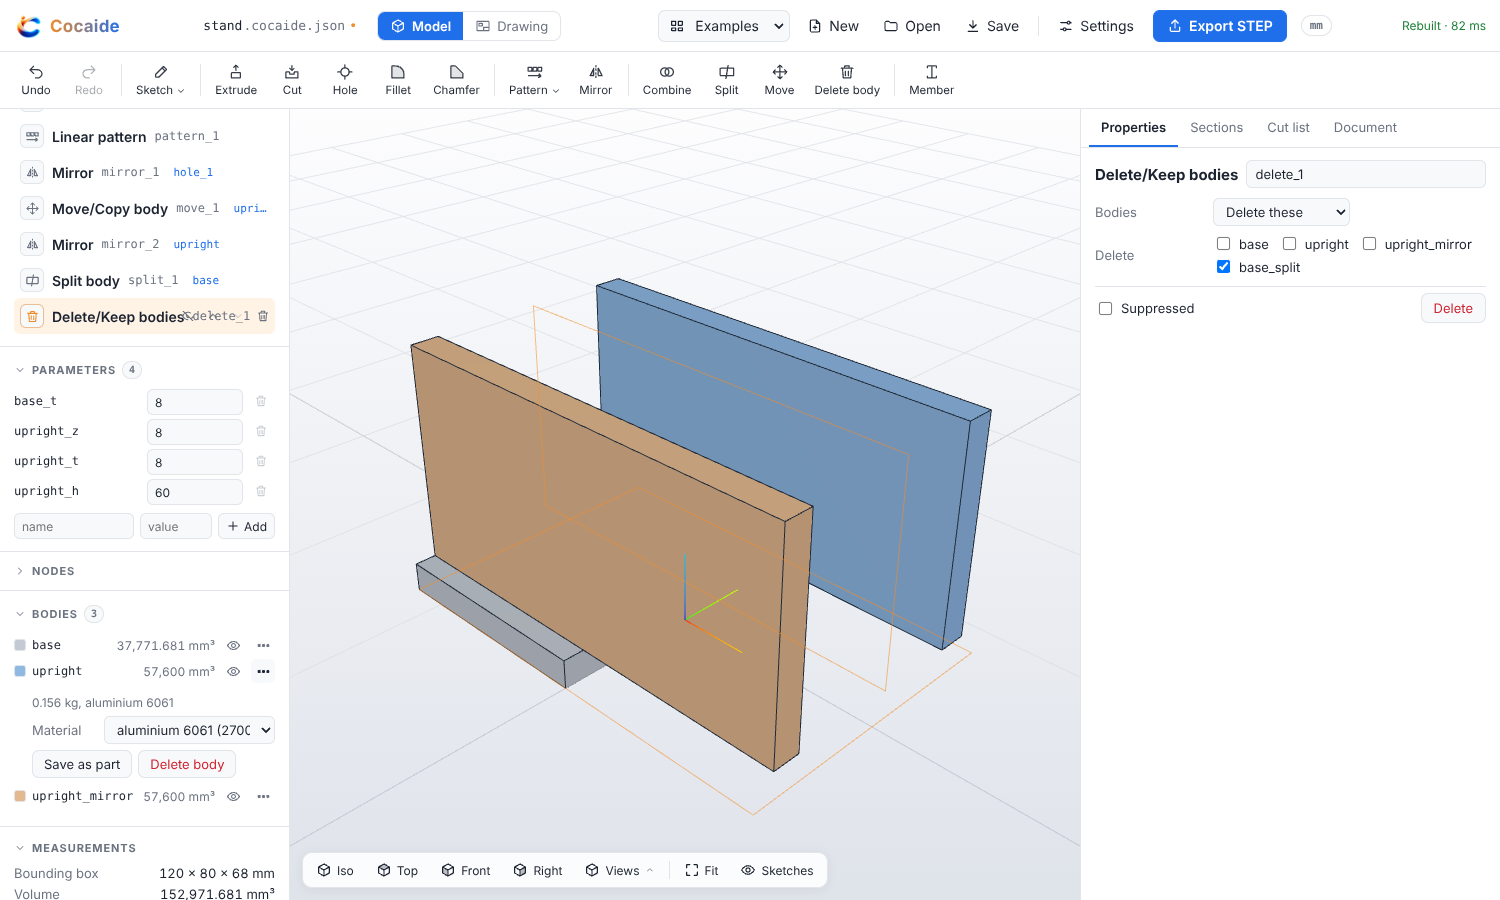
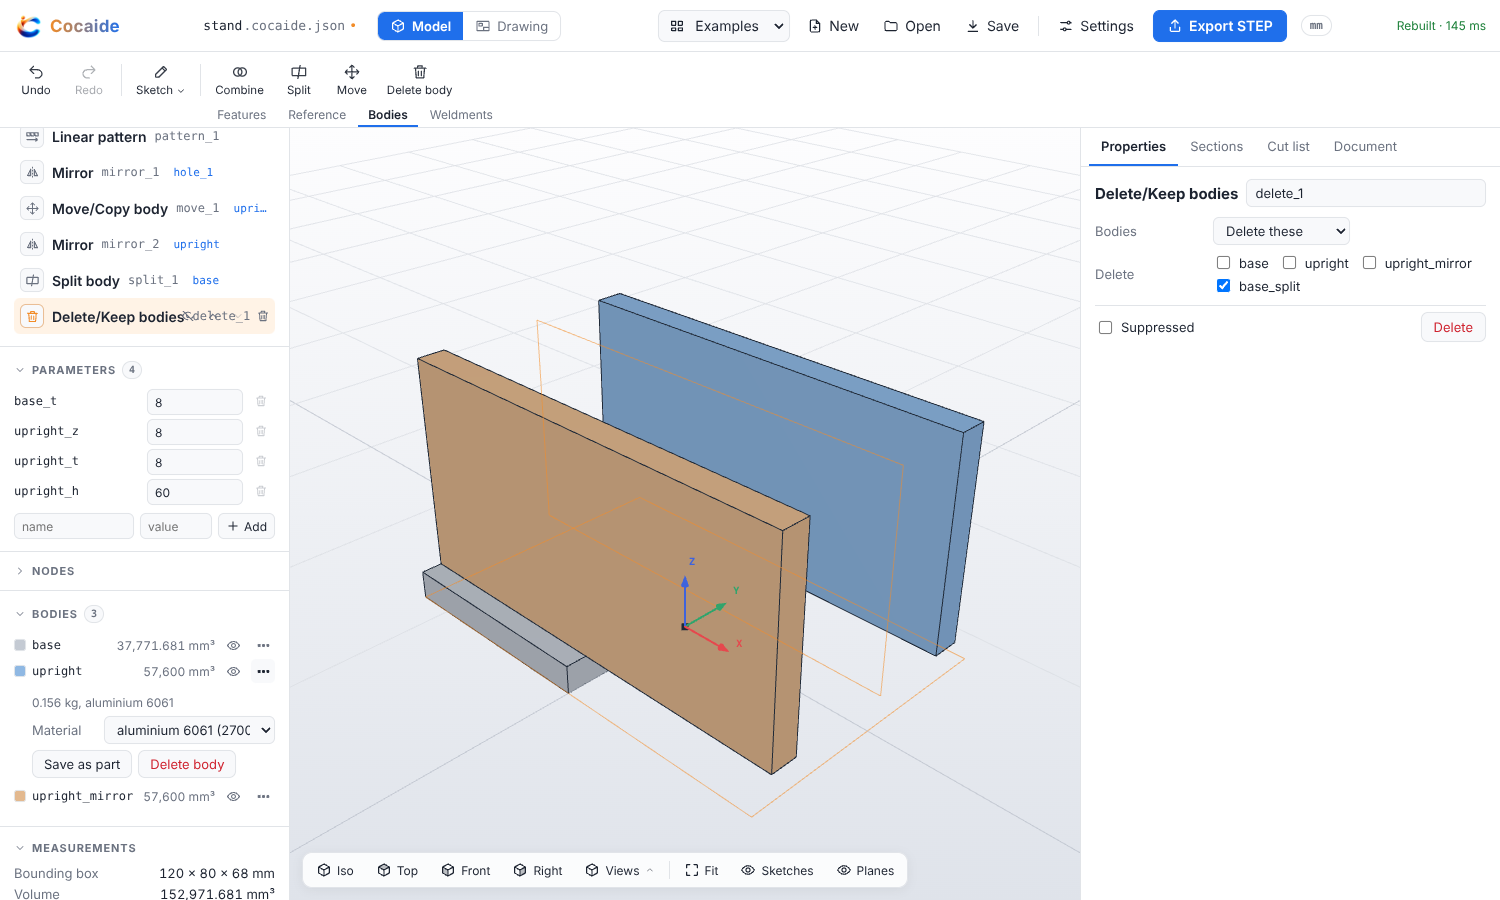
W1A reference geometry: e2e datums spec, viewport datum hook, e2e specs updated for the Reference tab and sketch-by-reference
Claude-Session: https://claude.ai/code/session_01ChhJU5NmYXBo7cA4eKhPqx

diff --git a/e2e/datums.spec.ts b/e2e/datums.spec.ts
@@ -1,0 +1,136 @@
+// Reference geometry in the browser (Wave 1A): planes, axes and points from
+// the Reference tab, picked from the selection; sketches placed on a plane or
+// a face by reference, following it; the default planes in the tree and the
+// view, shown SOLIDWORKS-style.
+
+import { expect, test, type Page } from "@playwright/test";
+import { commit, expectVolume, openApp, savedDocument, sketchClick, viewportClick } from "./helpers";
+
+type Hook = { __cocaideViewport: { datums(): string[]; datumPoint(id: string): [number, number] | null } };
+const drawn = (page: Page) => page.evaluate(() => (window as unknown as Hook).__cocaideViewport.datums());
+const boundingBox = (page: Page) => page.getByTestId("measurements").locator("dd").first();
+type Doc = { features: Record<string, unknown>[] };
+
+test.beforeEach(async ({ page }) => {
+  const problems = await openApp(page);
+  await page.locator("select").first().selectOption("bracket");
+  await expectVolume(page, "18,994.728");
+  (page as unknown as { problems: string[] }).problems = problems;
+});
+
+test.afterEach(async ({ page }) => {
+  expect((page as unknown as { problems: string[] }).problems).toEqual([]);
+});
+
+test("an offset plane from Top, a sketch on it, extruded: the body sits at the offset", async ({ page }) => {
+  await page.getByTestId("tab-reference").click();
+  // Nothing selected: a plane 10 mm above Top, and a notice saying what to select next time.
+  await page.getByTestId("tool-plane").click();
+  await expect(page.getByTestId("notice")).toContainText("Made a plane 10 mm above Top");
+  await expect(page.getByTestId("feature-plane_1")).toBeVisible();
+  await commit(page, "prop-distance", "20");
+  await expect(page.getByTestId("prop-datum-where")).toHaveText("through 0, 0, 20 · normal +Z");
+  expect(await drawn(page)).toContain("plane_1");
+  // The plane feature is selected in the tree: Sketch sketches on it straight away.
+  await page.getByTestId("tool-sketch").click();
+  await page.getByTestId("tool-circle").click();
+  await sketchClick(page, 0, 0);
+  await sketchClick(page, 10, 0);
+  await page.getByTestId("finish-sketch").click();
+  const doc = (await savedDocument(page)) as Doc;
+  expect(doc.features.find((f) => f.id === "sketch_2")?.plane).toEqual({ type: "ref", ref: { datum: "plane_1" } });
+  await page.getByTestId("tab-features").click();
+  await page.getByTestId("tool-extrude").click();
+  await commit(page, "prop-distance", "10");
+  // The plate is 0..6; the cylinder 20..30 above it.
+  await expect(boundingBox(page)).toHaveText("80 × 40 × 30 mm");
+  // Move the plane and the cylinder goes with it.
+  await page.getByTestId("feature-plane_1").locator(".feature-row").click();
+  await commit(page, "prop-distance", "40");
+  await expect(boundingBox(page)).toHaveText("80 × 40 × 50 mm");
+});
+
+test("the default planes: listed first in the tree, shown while selected or by their eye, remembered", async ({ page }) => {
+  await expect(page.getByTestId("datum-Front")).toBeVisible();
+  // Hidden until selected (SOLIDWORKS); the origin's triad is shown.
+  expect(await drawn(page)).toEqual(["Origin"]);
+  await page.getByTestId("datum-Top").locator(".feature-row").click();
+  await expect(page.getByTestId("selection")).toHaveText("Selected: Top plane");
+  expect(await drawn(page)).toContain("Top");
+  await page.screenshot({ path: "out/e2e/datums-top-selected.png" });
+  // Its menu: sketch on it.
+  await page.getByTestId("datum-Top").locator(".feature-row").click({ button: "right" });
+  await expect(page.getByTestId("ctx-sketch-plane")).toBeVisible();
+  await page.keyboard.press("Escape");
+  // Click off it: hidden again. The eye shows it for good, and the choice is kept across a reload.
+  await page.getByTestId("datum-Top").locator(".feature-row").click(); // still selected: stays
+  await viewportClick(page, [-10, 5, 6]);
+  expect(await drawn(page)).not.toContain("Top");
+  await page.getByTestId("datum-Front").hover();
+  await page.getByTestId("datum-eye-Front").click();
+  await page.getByTestId("datum-Right").hover();
+  await page.getByTestId("datum-eye-Right").click();
+  await page.getByTestId("datum-Top").hover();
+  await page.getByTestId("datum-eye-Top").click();
+  expect(await drawn(page)).toEqual(expect.arrayContaining(["Front", "Top", "Right", "Origin"]));
+  await page.getByRole("button", { name: "Iso" }).click();
+  await page.mouse.move(5, 5);
+  await page.getByTestId("viewport").screenshot({ path: "out/e2e/datums-planes-shown.png" });
+  await page.reload();
+  await expect(page.getByTestId("status")).toHaveText(/^Rebuilt/, { timeout: 60_000 });
+  expect(await drawn(page)).toEqual(expect.arrayContaining(["Front", "Top", "Right"]));
+  // The Planes toggle hides them all (the origin keeps its own eye).
+  await page.getByTestId("view-planes").click();
+  expect(await drawn(page)).toEqual(["Origin"]);
+  // A plane in the view is picked on its border, never in front of the part.
+  await page.getByTestId("view-planes").click();
+  const at = await page.evaluate(() => (window as unknown as Hook).__cocaideViewport.datumPoint("Right"));
+  await page.mouse.click(at![0], at![1]);
+  await expect(page.getByTestId("selection")).toHaveText("Selected: Right plane");
+  await viewportClick(page, [-10, 5, 6]);
+  await expect(page.getByTestId("selection")).toContainText("planar face");
+});
+
+test("a sketch on a face of the bracket follows the face when the extrude gets deeper", async ({ page }) => {
+  await viewportClick(page, [-10, 5, 6]);
+  // A face selected: Sketch sketches on it straight away.
+  await page.getByTestId("tool-sketch").click();
+  await page.getByTestId("tool-circle").click();
+  await sketchClick(page, -20, 0);
+  await sketchClick(page, -10, 0);
+  await page.getByTestId("finish-sketch").click();
+  const doc = (await savedDocument(page)) as Doc;
+  expect(doc.features.find((f) => f.id === "sketch_2")?.plane).toEqual({ type: "ref", ref: { face: { type: "planar", normal: [0, 0, 1], pick: "largest" } } });
+  await page.getByTestId("tool-extrude").click();
+  await commit(page, "prop-distance", "10");
+  await expect(boundingBox(page)).toHaveText("80 × 40 × 16 mm");
+  // Deeper plate: the boss stands on its new top face.
+  await page.getByTestId("feature-ext_1").locator(".feature-row").click();
+  await commit(page, "prop-distance", "10");
+  await expect(boundingBox(page)).toHaveText("80 × 40 × 20 mm");
+  // The sketch opens where it is now, and finishing keeps its plane a reference.
+  await page.getByTestId("feature-sketch_2").locator(".feature-row").dblclick();
+  await page.getByTestId("finish-sketch").click();
+  const after = (await savedDocument(page)) as Doc;
+  expect(after.features.find((f) => f.id === "sketch_2")?.plane).toEqual({ type: "ref", ref: { face: { type: "planar", normal: [0, 0, 1], pick: "largest" } } });
+});
+
+test("an axis from the hole's wall; a point at its rim's centre", async ({ page }) => {
+  await page.getByRole("button", { name: "Iso" }).click();
+  // The far side of the hole's wall, half way down.
+  await viewportClick(page, [30 - 2.33, 2.33, 3]);
+  await expect(page.getByTestId("selection")).toContainText("cylindrical face");
+  await page.getByTestId("tab-reference").click();
+  await page.getByTestId("tool-axis").click();
+  await expect(page.getByTestId("feature-axis_1")).toBeVisible();
+  await expect(page.getByTestId("prop-datum-where")).toHaveText(/^through 30, 0, -?[\d.]+ · along [+-]Z$/);
+  expect(await drawn(page)).toContain("axis_1");
+  // The rim's near side.
+  await viewportClick(page, [30 + 2.33, -2.33, 6]);
+  await expect(page.getByTestId("selection")).toContainText("circular edge");
+  await page.getByTestId("tool-point").click();
+  await expect(page.getByTestId("feature-point_1")).toBeVisible();
+  await expect(page.getByTestId("prop-datum-where")).toHaveText("at 30, 0, 6");
+  const doc = (await savedDocument(page)) as Doc;
+  expect(doc.features.find((f) => f.id === "point_1")).toMatchObject({ op: "point", mode: "center" });
+});

diff --git a/e2e/modelling.spec.ts b/e2e/modelling.spec.ts
@@ -34,8 +34,7 @@ test("cancelling a sketch leaves the document alone", async ({ page }) => {
 
 test("draws a closed line profile, constrains it, cuts it", async ({ page }) => {
   await viewportClick(page, [-10, 5, 6]);
-  await page.getByTestId("tool-sketch").click();
-  await page.getByRole("menuitem", { name: "On selected face" }).click();
+  await page.getByTestId("tool-sketch").click(); // a face selected: Sketch sketches on it straight away
   await page.getByTestId("tool-line").click();
   for (const [x, y] of [[-30, -10], [-10, -10], [-10, 10], [-30, 10], [-30, -10]]) await sketchClick(page, x, y);
   await expect(page.getByTestId("profile-status")).toContainText("1 region, area 400");
@@ -104,7 +103,7 @@ test("fillets picked corners: shift-click adds an edge, again removes it", async
   await viewportClick(page, [40, -20, 3]);
   await viewportClick(page, [40, 20, 3], { shift: true });
   await viewportClick(page, [-40, -20, 3], { shift: true });
-  await page.getByRole("button", { name: "Front" }).click();
+  await page.getByRole("button", { name: "Front", exact: true }).click();
   await viewportClick(page, [-40, -20, 3], { shift: true });
   await viewportClick(page, [-40, -20, 3], { shift: true }); // toggles off again
   await expect(page.getByTestId("selection")).toContainText("3 edges");

diff --git a/src/ui/Viewport.tsx b/src/ui/Viewport.tsx
@@ -670,13 +670,13 @@ export function Viewport({
         datums(): string[] {
           return datums.ids();
         },
-        /** A point on a drawn datum to click: a plane's border, an axis, a point, the origin (client pixels). */
+        /** A point on a drawn datum to click: a plane's far border (above the part, for a default plane), an axis, a point, the origin (client pixels). */
         datumPoint(id: string): [number, number] | null {
           if (id === "Origin") return toScreen([0, 0, 0]);
           const s = datumList.find((d) => d.id === id);
           if (!s) return null;
           const part = (a: Vec3, b: Vec3) => a.map((c, i) => c + (b[i] - c) * 0.3) as Vec3;
-          return toScreen(s.kind === "plane" ? part(s.corners[0], s.corners[1]) : s.kind === "axis" ? part(s.ends[0], s.ends[1]) : s.at);
+          return toScreen(s.kind === "plane" ? part(s.corners[2], s.corners[3]) : s.kind === "axis" ? part(s.ends[0], s.ends[1]) : s.at);
         },
         /** A pixel of the pinned photo -> client pixels. */
         photoPoint(px: Vec2): [number, number] | null {

diff --git a/e2e/command-manager.spec.ts b/e2e/command-manager.spec.ts
@@ -31,8 +31,8 @@ async function ctrlClick(page: Page, p: Vec3) {
 
 test("the toolbar is a CommandManager: Sketch always there, the tools on tabs, the tab remembered", async ({ page }) => {
   const bar = page.getByRole("toolbar", { name: "Modelling" });
-  // Reference and Evaluate have no tools yet, so they don't show.
-  await expect(bar.getByRole("tab")).toHaveText(["Features", "Bodies", "Weldments"]);
+  // Evaluate has no tools yet, so it doesn't show.
+  await expect(bar.getByRole("tab")).toHaveText(["Features", "Reference", "Bodies", "Weldments"]);
   await expect(page.getByTestId("tab-features")).toHaveAttribute("aria-selected", "true");
   await expect(page.getByTestId("tool-extrude")).toBeVisible();
   await expect(page.getByTestId("tool-combine")).toHaveCount(0);

diff --git a/e2e/phase-b-acceptance.spec.ts b/e2e/phase-b-acceptance.spec.ts
@@ -61,7 +61,7 @@ test("a human makes the bracket with no JSON editing", async ({ page }) => {
     {
       id: "sketch_1",
       op: "sketch",
-      plane: { type: "datum", normal: [0, 0, 1], origin: [0, 0, 0] },
+      plane: { type: "ref", ref: { datum: "Top" } },
       entities: [{ id: "r1", type: "rect", center: [0, 0], w: 80, h: 40 }],
       constraints: [
         { type: "distanceX", entity: "r1", value: 80 },
